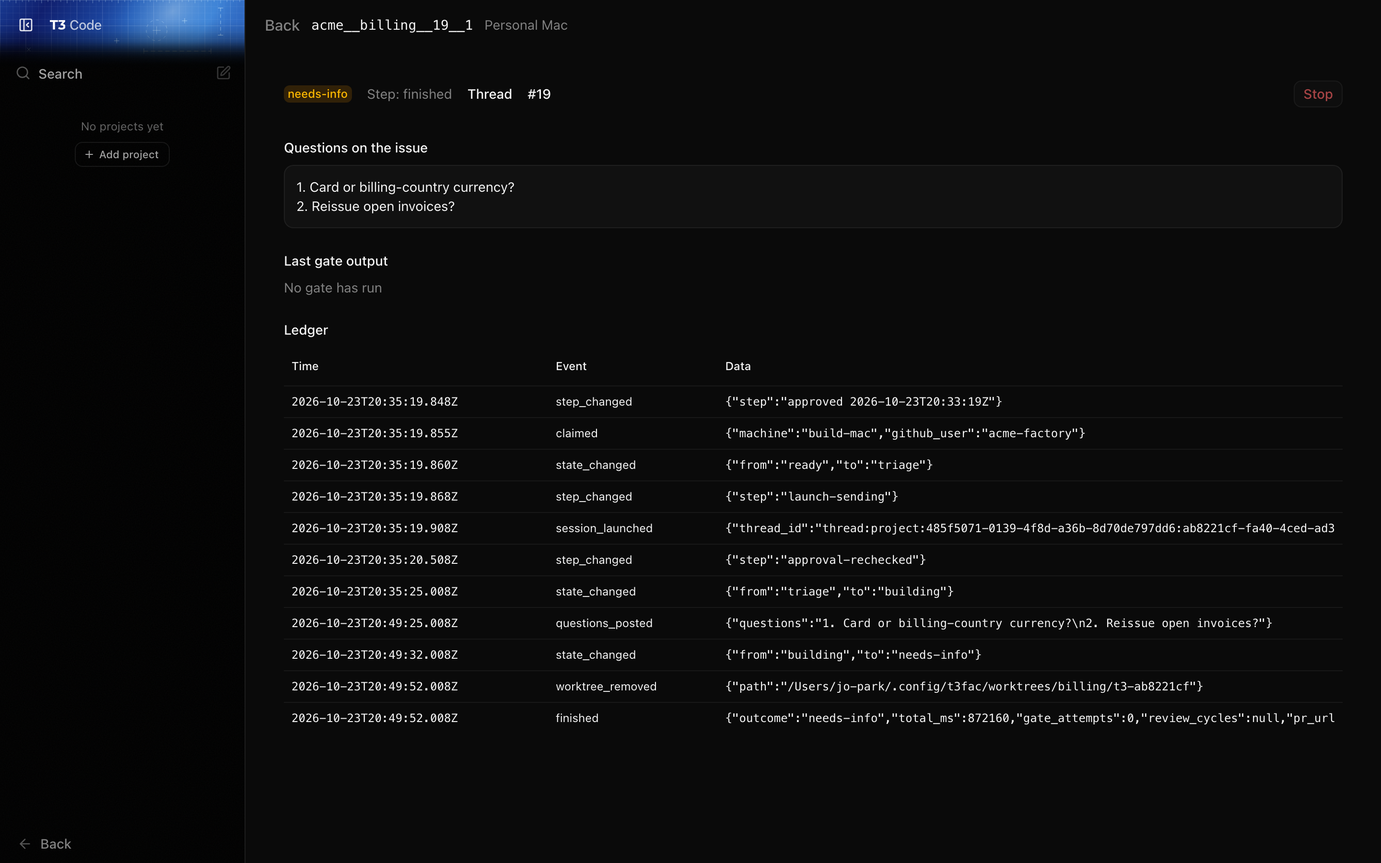
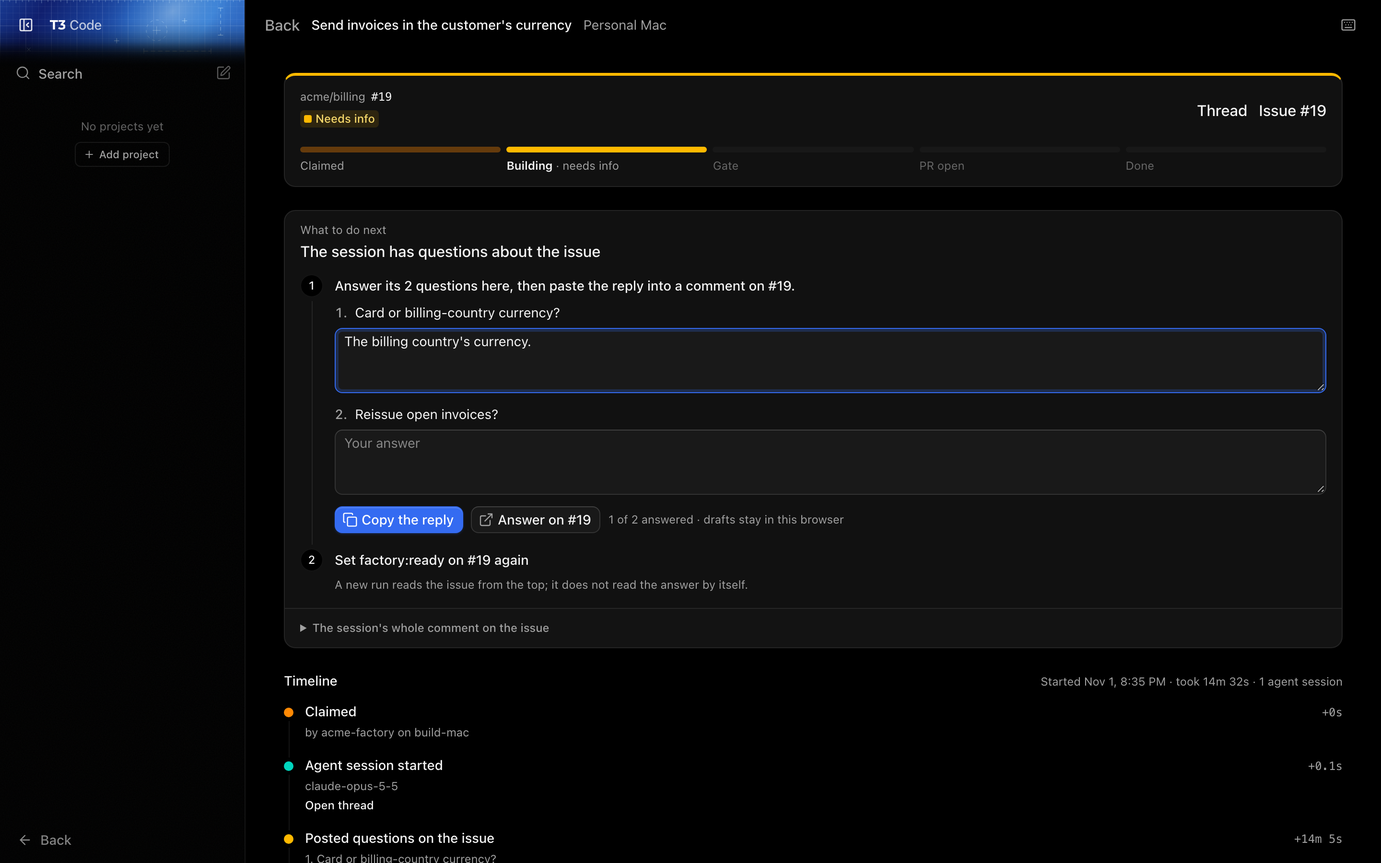
docs(factory): the guide teaches today's factory screens: fresh light and dark shots of every page, a stuck run's next step and a merged run's report, and Watch runs split into the questions each part answers

diff --git a/factory/site/scripts/screenshots.ts b/factory/site/scripts/screenshots.ts
@@ -39,10 +39,10 @@ const SHOTS: ReadonlyArray<Shot> = [
   {
     name: "factory-page",
     path: () => "/factory",
-    // Tall enough for the belt, the bins and the runs table under them.
+    // Tall enough for the repo tiles, the control bar and the belt with a post open.
     height: 1280,
     ready: async (page) => {
-      await page.getByText("acme/storefront#57").first().waitFor();
+      await page.locator('[data-post="building"]').waitFor();
       // The page opens the newest run's post, Claimed, whose run has no title until it launches.
       await page.locator('[data-post="building"]').click();
       await page.getByText("Retry failed webhook deliveries").first().waitFor();
@@ -53,14 +53,29 @@ const SHOTS: ReadonlyArray<Shot> = [
     path: (environmentId) => `/factory/${environmentId}/${demoRunId("pr-open")}`,
     ready: async (page) => {
       await page.getByText("Last gate output").waitFor();
-      await page.getByText("pr_opened").first().waitFor();
     },
   },
   {
     name: "run-needs-info",
     path: (environmentId) => `/factory/${environmentId}/${demoRunId("needs-info")}`,
     ready: async (page) => {
-      await page.getByText("questions_posted").first().waitFor();
+      await page.getByRole("button", { name: "Copy the reply" }).waitFor();
+      // A question answered, so the shot shows what the reply box is for.
+      await page.getByRole("textbox").first().fill("The billing country's currency.");
+    },
+  },
+  {
+    name: "run-stuck",
+    path: (environmentId) => `/factory/${environmentId}/${demoRunId("stuck")}`,
+    ready: async (page) => {
+      await page.getByText("What to do next").waitFor();
+    },
+  },
+  {
+    name: "run-merged",
+    path: (environmentId) => `/factory/${environmentId}/${demoRunId("merged")}`,
+    ready: async (page) => {
+      await page.getByText("How it went").waitFor();
     },
   },
   {
@@ -69,15 +84,24 @@ const SHOTS: ReadonlyArray<Shot> = [
     ready: async (page) => {
       const list = page.getByRole("region", { name: "Needs attention" });
       await list.getByText("acme/storefront#52").first().waitFor();
-      // The row the list shares with the Needs info and Stuck bins.
-      return list.locator("xpath=..");
+      // The row the list shares with the Needs info and Stuck bins, scrolled into the window.
+      const row = list.locator("xpath=..");
+      await row.scrollIntoViewIfNeeded();
+      return row;
     },
   },
   {
     name: "settings-factory",
     path: () => "/settings/factory",
+    height: 1400,
     ready: async (page) => {
-      await page.getByText("poll", { exact: false }).first().waitFor();
+      // The form, not the first-run steps above it: no T3 project is seeded here.
+      const section = page.locator("section").filter({
+        has: page.getByRole("heading", { name: "Machine config" }),
+      });
+      await section.getByText("poll", { exact: false }).first().waitFor();
+      await section.scrollIntoViewIfNeeded();
+      return section;
     },
   },
 ];
@@ -234,7 +258,10 @@ const fetchEnvironmentId = async (server: DevServer): Promise<string> => {
   return descriptor.environmentId;
 };
 
-const capture = async (browser: Browser, server: DevServer): Promise<void> => {
+/** Where the docs say the demo machine keeps its T3 home, in place of the temp dir it really is in. */
+const SHOWN_HOME = "/Users/jo-park/.config/t3fac";
+
+const capture = async (browser: Browser, server: DevServer, home: string): Promise<void> => {
   const environmentId = await fetchEnvironmentId(server);
   NodeFS.mkdirSync(OUT_DIR, { recursive: true });
   // One context for both themes: the pairing URL's token works once.
@@ -269,6 +296,21 @@ const capture = async (browser: Browser, server: DevServer): Promise<void> => {
       });
       // Let the last fetch and the fonts settle so no shot catches a loading state.
       await page.waitForLoadState("networkidle");
+      // Settings names the config file it writes; show the demo machine's home, not the temp dir.
+      await page.evaluate(
+        ([homes, to]) => {
+          const walker = document.createTreeWalker(document.body, NodeFilter.SHOW_TEXT);
+          for (let node = walker.nextNode(); node !== null; node = walker.nextNode()) {
+            for (const from of homes) {
+              if (node.nodeValue?.includes(from)) {
+                node.nodeValue = node.nodeValue.replaceAll(from, to);
+              }
+            }
+          }
+        },
+        // The real path first: the tmpdir form is a prefix of it on macOS.
+        [[NodeFS.realpathSync(home), home], SHOWN_HOME] as const,
+      );
       await page.evaluate(() => document.fonts.ready);
       const file = NodePath.join(OUT_DIR, `${shot.name}-${theme}.png`);
       const box = part ? await part.boundingBox() : null;
@@ -316,7 +358,7 @@ const main = async (): Promise<void> => {
     child = spawnDevServer(home, ghConfigDir, log);
     const server = await devServerReady(child, log);
     browser = await chromium.launch();
-    await capture(browser, server);
+    await capture(browser, server, home);
   } catch (error) {
     if (NodeFS.existsSync(log)) {
       // The startup pairing URL's token is dead once the server stops, but keep it off screen.

diff --git a/factory/site/scripts/demo-data.ts b/factory/site/scripts/demo-data.ts
@@ -120,6 +120,8 @@ poll_seconds: 60
 max_concurrent_runs: 2
 max_concurrent_gates: 1
 notify: false
+# The throwaway home sits on whatever disk runs the script; no low-disk item in the shots.
+min_free_gib: 0
 `;
 
 /** A stable fake id from a run, so every rerun of the script draws the same images. */

diff --git a/factory/site/guide/watching-runs.md b/factory/site/guide/watching-runs.md
@@ -1,47 +1,101 @@
 # Watch runs
 
-The fork's web app has a Factory page, reached from the sidebar. It shows every connected environment that runs a factory, the primary environment first: a belt at the top with the runs of all of them, and below it one table of their runs. In the desktop app the primary is the LaunchAgent server once you have [paired it](/guide/install#install-the-desktop-app). Reading needs a normal paired session. Pausing claims, stopping a run and dismissing an item need the `orchestration:operate` scope, which a normal pairing carries.
+The fork's web app has a Factory page, reached from the sidebar. It shows every connected environment that runs a factory, the primary environment first: what needs you and what happened while you were away at the top, then a belt with the runs of all of them, and below it one table of their runs. In the desktop app the primary is the LaunchAgent server once you have [paired it](/guide/install#install-the-desktop-app). Reading needs a normal paired session. Pausing claims, stopping a run and dismissing an item need the `orchestration:operate` scope, which a normal pairing carries.
 
 The pages work in a phone's browser too, paired over your tailnet as described in [remote access](https://github.com/pingdotgg/t3code/tree/main/docs/user/remote-access.md). The T3 mobile app is upstream's build and has no Factory screen.
 
 ## The Factory page
 
-<img class="screenshot light-only" src="/screenshots/factory-page-light.png" alt="The Factory page: the belt with one run each at Claimed, Building, Gate and PR open and none done today, the Building post open on its run and its issue title, then the Needs attention, Needs info and Stuck bins, and the runs table with every run's state, step, age and pull request" />
-<img class="screenshot dark-only" src="/screenshots/factory-page-dark.png" alt="The Factory page: the belt with one run each at Claimed, Building, Gate and PR open and none done today, the Building post open on its run and its issue title, then the Needs attention, Needs info and Stuck bins, and the runs table with every run's state, step, age and pull request" />
+<img class="screenshot light-only" src="/screenshots/factory-page-light.png" alt="The Factory page: a tile per repo, one stuck and one waiting on an answer; the control bar with claims running and the next pass; what happened in the last day with the stuck and needs-info runs; the Today strip; and the belt with one run each at Claimed, Building, Gate and PR open, the Building post open on its run" />
+<img class="screenshot dark-only" src="/screenshots/factory-page-dark.png" alt="The Factory page: a tile per repo, one stuck and one waiting on an answer; the control bar with claims running and the next pass; what happened in the last day with the stuck and needs-info runs; the Today strip; and the belt with one run each at Claimed, Building, Gate and PR open, the Building post open on its run" />
 
-Until the factory has run anything, the page opens on what stands between it and its first run instead of an empty belt: a watched repo, a config it can build from, claims on, and an issue labelled `factory:ready`. Each step says where it stands, with the first config error or a **Turn claims on** button where that is what is missing, beside how a run will travel the five posts.
+Read the page from the top down. Each part answers one question.
 
-With runs in more than one repo, the page opens on a tile for each repo, the ones that need you first: stuck, then waiting on an answer, then with a run in flight, then flowing (something merged in the last seven days), then quiet. Each tile says what else is going on and when it last merged, and draws its last seven days as bars, green for what merged and red for what stopped. Click a tile to show only that repo on the whole page, the belt and its bins included; click it again, or **Show everything**, to see every repo. It is the same filter as the repo in the **Showing** line.
+### Is anything waiting on me?
 
-At the top of the belt, the control bar holds the claims switch and the countdown to the next pass, and under them what the factory did since you last caught up, or in the last day before you ever have: how many issues merged, closed and were claimed, the runs that stopped for you (stuck or needs info, unless a later attempt took over) with why, and the merged and closed issues, each opening its run. Press **Mark caught up** and your next visit counts from there. The mark is kept in this browser and the catch-up follows the **Showing** line.
+With runs in more than one repo, the page opens on a tile for each repo, the ones that need you first: stuck, then waiting on an answer, then with a run in flight, then flowing (something merged in the last seven days), then quiet. Each tile says what else is going on and when it last merged, and draws its last seven days as bars, green for what merged and red for what stopped. Click a tile to show only that repo on the whole page, the belt and its bins included. Click it again, or **Show everything**, to see every repo. It is the same filter as the repo in the **Showing** line.
 
-Use it to see what the factory is doing now. The belt at the top has five posts, one per station a run passes: Claimed, Building, Gate, PR open and Done. Each unfinished run is a tile under its post, showing its issue number and how long it has been there; click a tile to open the run. Click a post to open a table of its runs under the rail, with each run's title and step and the actions that can work on it: its thread, its pull request, and Stop while it is building. The runs list and a run's page show the same actions, and the runs list adds **Next step** (or **Answer**) to the newest attempt of a stuck (or needs-info) issue. Done counts the runs whose pull request was merged or closed today. The belt reads status every 5 seconds while the page is open.
+Until the factory has run anything, the page opens on what stands between it and its first run instead: a watched repo, a config it can build from, claims on, and an issue labelled `factory:ready`. Each step says where it stands, with the first config error or a **Turn claims on** button where that is what is missing.
 
-Under the belt, the runs table lists every unfinished run and the runs that finished in the last week, newest first under a heading for each day with its count, with each run's title, repo, issue, state, current step, age and pull request. A run that ended because its pull request was merged or closed shows `merged` or `closed` as its state. The chips above it (Active, Needs a person, Merged, Closed) narrow the list to one state and count the runs in each; the chip is in the URL. Type in the search box to keep the runs whose title, repo or run id holds every word, or `#20` for one issue or pull request. The table shows 50 runs at a time: Show more adds the next 50, and `j` past the last run does it for you. Show all runs to read the full history. It refreshes every 30 seconds. With several environments or repos, narrow the page with the **Showing** line under its title: pick a repo, each listed with how it is doing, and with several environments a machine, each with its state. The line stays in view as you scroll, **Show everything** clears both, and the choice is in the URL, so a reload or a shared link keeps it.
+### What happened while I was away?
 
-To see whether a change to how you write issues, or to a repo's config, is helping, switch the page header from **Live** to **Trends**. It counts every run by the week it was claimed, for up to eight weeks: a bar per week split by how its runs came out, and for each week how many merged, the share of ended runs that got stuck or needed info, and the median time from claim to merge. The top row sets this week against the four weeks before it, and **Why runs got stuck** lists the causes with a count per week, so a cause you fixed should fade. Trends follow the **Showing** line and read the full runs list once, as Show all runs does.
+Under the control bar, the catch-up says what the factory did since you last caught up, or in the last day before you ever have. It counts what merged, closed and was claimed, lists the runs that stopped for you (stuck or needs info, unless a later attempt took over) with why, and lists the merged and closed issues. Each one opens its run. Press **Mark caught up** and your next visit counts from there. The mark is kept in this browser, and the catch-up follows the **Showing** line.
 
-With several environments, the control bar lists every machine on its own row: its claims switch, whether it is running, paused (since when), held for an update or idle (and why, with a link to Settings → Factory), its slots, the countdown to its next pass, and **Update waiting** when a build waits to install. A paused or held machine shows without being picked. Pick a machine by its name: its tiles on the rail turn solid while the others' are hollow, the Claimed post says when its claims are held, and its update banner shows. The catch-up, the Today strip, Done and the Stuck and Needs info bins don't change with the pick. On the strip, each run that touched today is a bar from its claim to its end (to now while it runs), coloured by its post or by how it ended, and opens its run. A shaded band marks the time the picked machine's claims have been held. With one environment, its slots are beside its name above the control bar, and an idle factory says why there.
+The **Today** strip under it draws each run that touched today as a bar from its claim to its end (to now while it runs), coloured by its post or by how it ended. Click a bar to open the run.
+
+### What is the factory doing now?
+
+The belt has five posts, one per station a run passes: Claimed, Building, Gate, PR open and Done. Each unfinished run is a tile under its post, showing its issue number and how long it has been there. Click a tile to open the run. Click a post to open a table of its runs under the rail, with each run's title and step and the actions that can work on it: its thread, its pull request, and **Stop** while it is building. Done counts the runs whose pull request was merged or closed today. The belt reads status every 5 seconds while the page is open.
+
+### Every run, searchable
+
+Under the belt and its bins, the runs table lists every unfinished run and the runs that finished in the last week, newest first under a heading for each day. Each row has the run's title, repo, issue, state, current step, age and pull request, and the state wears its post's colour. A run that ended because its pull request was merged or closed says Merged or Closed. The newest attempt of a stuck issue gets **Next step**, and of a needs-info issue **Answer**.
+
+- The chips above the table (Active, Needs a person, Merged, Closed) narrow it to one state and count the runs in each. The chip is in the URL.
+- Type in the search box to keep the runs whose title, repo or run id holds every word, or `#20` for one issue or pull request.
+- The table shows 50 runs at a time. **Show more** adds the next 50, and `j` past the last run does it for you. **Show all runs** reads the full history.
+
+It refreshes every 30 seconds.
+
+### Several repos or machines
+
+With several environments or repos, narrow the page with the **Showing** line under its title: pick a repo, each listed with how it is doing, and with several environments a machine, each with its state. The line stays in view as you scroll, **Show everything** clears both, and the choice is in the URL, so a reload or a shared link keeps it.
+
+With several environments, the control bar lists every machine on its own row: its claims switch, whether it is running, paused (since when), held for an update or idle (and why, with a link to Settings → Factory), its slots, the countdown to its next pass, and **Update waiting** when a build waits to install. A paused or held machine shows without being picked. Pick a machine by its name: its tiles on the rail turn solid while the others' are hollow, the Claimed post says when its claims are held, its update banner shows, and the Today strip shades the time its claims have been held. The catch-up, the Today strip's bars, Done and the Stuck and Needs info bins don't change with the pick. With one environment, its slots are beside its name above the control bar, and an idle factory says why there.
+
+### Pausing claims
 
 Turn a claims switch off to pause claims on that machine. While claims are paused the factory takes no new `factory:ready` issues in any repo. Runs already under way carry on: sessions, gates and feedback all continue. Turn the switch back on to start claiming again.
 
-Claims also stop while autodeploy has a new build waiting to install. The belt then shows an **Update waiting** banner naming the build, how long it has waited and when it installs at the latest, and what it waits for: each run in progress (a link to it), a factory pass running, and threads with an agent at work. It installs within 10 minutes of the last of those finishing. The Claimed post says `claims held for update`. **Snooze 1 hour** lets claims go on for an hour and holds the install; **Update now** installs it at once, over the runs in progress. Snoozing needs the `orchestration:operate` scope and Update now the `environment:maintain` scope. See [Follow main](/guide/install#follow-main).
+Claims also stop while autodeploy has a new build waiting to install. The belt then shows an **Update waiting** banner naming the build, how long it has waited and when it installs at the latest, and what it waits for: each run in progress (a link to it), a factory pass running, and threads with an agent at work. It installs within 10 minutes of the last of those finishing. The Claimed post says `claims held for update`. **Snooze 1 hour** lets claims go on for an hour and holds the install. **Update now** installs it at once, over the runs in progress. Snoozing needs the `orchestration:operate` scope and Update now the `environment:maintain` scope. See [Follow main](/guide/install#follow-main).
+
+### Trends
+
+To see whether a change to how you write issues, or to a repo's config, is helping, switch the page header from **Live** to **Trends**. It counts every run by the week it was claimed, for up to eight weeks: a bar per week split by how its runs came out, and for each week how many merged, the share of ended runs that got stuck or needed info, and the median time from claim to merge. The top row sets this week against the four weeks before it, and **Why runs got stuck** lists the causes with a count per week, so a cause you fixed should fade. Trends follow the **Showing** line and read the full runs list once, as Show all runs does.
 
 ## A run's page
 
-<img class="screenshot light-only" src="/screenshots/run-page-light.png" alt="A pr-open run's page: its state and step, the links to its thread, issue and pull request, the last gate's commands with exit code 0, and the ledger, where gate attempt 1 failed and was sent back before attempt 2 passed" />
-<img class="screenshot dark-only" src="/screenshots/run-page-dark.png" alt="A pr-open run's page: its state and step, the links to its thread, issue and pull request, the last gate's commands with exit code 0, and the ledger, where gate attempt 1 failed and was sent back before attempt 2 passed" />
+<img class="screenshot light-only" src="/screenshots/run-page-light.png" alt="A PR open run's page: the run card with its repo and issue, the PR open chip and step, links to its thread, issue and pull request, and the five-post track filled up to PR open; then the timeline, where gate attempt 1 failed on npm test and was sent back before attempt 2 passed, and the last gate output" />
+<img class="screenshot dark-only" src="/screenshots/run-page-dark.png" alt="A PR open run's page: the run card with its repo and issue, the PR open chip and step, links to its thread, issue and pull request, and the five-post track filled up to PR open; then the timeline, where gate attempt 1 failed on npm test and was sent back before attempt 2 passed, and the last gate output" />
 
-Open a run from the list to see why it is where it is. The page shows the run's state and step, and links to its issue, its pull request and its T3 thread, where you can read the session. While a run is unfinished, its Thread link here, on the belt and in the runs list says what the agent is doing (working, needs approval, needs answer, turn ended, failed), and on its page the run's card adds a line under the track with the same state, since when, how many items its thread holds and when it last changed. A stuck or needs-info run's page opens on what to do next: the cause in plain words, the fix for it with a button to where it starts (the session's thread, the gate output, the pull request's checks, or the issue to answer), and the reminder to set `factory:ready` again with what the new run will build on. The reason or questions in full sit under the steps. A run whose pull request was merged or closed opens on how it went: the time from claim to merge or close, a bar of where that time went (the agent building, the gate, the pull request waiting on review), dots on it where the run went back to the agent (a gate failure, review feedback) or the base branch moved, and **First try** when it merged with nothing sent back. Below that is the run's timeline: what happened, in plain words, timed from the claim. Each gate run is one step with its commands, each agent session links to its own thread, and the summary above it says how long the run took and how many gate runs failed. Once a gate has run, the last gate comes next: each command with its exit code and duration, and, when a command failed, where it failed: the failing lines of its output with a few lines around them, numbered and marked, with the whole output a click away and a button to copy it. Last is the raw ledger, every event the factory recorded for the run, closed until you open it.
+Open a run from anywhere it is listed to see why it is where it is. The page's header names the issue, and the run card under it says where the run stands: its repo and issue, its state in the belt's colours with the current step, links to its **Thread**, **Issue** and **PR**, and a track of the five posts filled up to where the run got. A run that stopped shows its post in red or amber with "stuck" or "needs info" beside it.
 
-A run opened from the runs table or from the Stuck or Needs info bin keeps that list: its header shows the run's title and where it sits (`3 of 17`), and the arrows beside it open the previous or next run. Back returns to the list with the same filters and search, on the run you left. From a keyboard, `j` and `k` step through the runs table and `Enter` opens one; on a run's page `j` and `k` move to the next and previous run and `Esc` goes back. `/` jumps to the search box. `b`, `a`, `n`, `s` and `r` jump to the belt, Needs attention, Needs info, Stuck and the runs table, and the first Tab on the page offers the same jumps. `?` lists every key.
+While a run is unfinished, its Thread link here, on the belt and in the runs list says what the agent is doing (working, needs approval, needs answer, turn ended, failed). On its page the run card adds a line under the track with the same state, since when, how many items its thread holds and when it last changed.
 
-A run in `factory:building` can be stopped from here. See [Stopping a run by hand](/guide/when-a-run-stops#stopping-a-run-by-hand).
+### When it stopped: what to do next
+
+<img class="screenshot light-only" src="/screenshots/run-stuck-light.png" alt="A stuck run's page: the run card with its track red at PR open, then What to do next, headed The gate failed after 3 attempts, with step 1 to read the gate output, naming the command that failed, and step 2 to set factory:ready on the issue again, saying the new run continues the pull request" />
+<img class="screenshot dark-only" src="/screenshots/run-stuck-dark.png" alt="A stuck run's page: the run card with its track red at PR open, then What to do next, headed The gate failed after 3 attempts, with step 1 to read the gate output, naming the command that failed, and step 2 to set factory:ready on the issue again, saying the new run continues the pull request" />
+
+A stuck or needs-info run's page opens on **What to do next**. Its heading is the cause in plain words. Step 1 is the fix, with a button to where it starts: the session's thread, the gate output, the pull request's checks, or the issue to answer. Step 2 is the reminder to set `factory:ready` again, and says what the new run will build on. The reason in full sits under the steps. For a needs-info run, step 1 holds the session's questions with a box to answer each; see [needs-info](/guide/when-a-run-stops#needs-info).
+
+### When it merged: how it went
+
+<img class="screenshot light-only" src="/screenshots/run-merged-light.png" alt="A merged run's page: the run card with its track full to Merged, then How it went: 5h 49m from claim to merge, First try, and a bar split into agent building, gate and waiting on review with the time and share of each" />
+<img class="screenshot dark-only" src="/screenshots/run-merged-dark.png" alt="A merged run's page: the run card with its track full to Merged, then How it went: 5h 49m from claim to merge, First try, and a bar split into agent building, gate and waiting on review with the time and share of each" />
+
+A run whose pull request was merged or closed opens on **How it went**: the time from claim to merge or close, and a bar of where that time went (the agent building, the gate, the pull request waiting on review). Dots on the bar mark where the run went back to the agent (a gate failure, review feedback) or the base branch moved. **First try** means it merged with nothing sent back.
+
+### The timeline, the gate and the ledger
+
+Below the card is the run's timeline: what happened, in plain words, timed from the claim. Each gate run is one step with its commands, each agent session links to its own thread, and the summary above it says how long the run took and how many gate runs failed.
+
+Once a gate has run, **Last gate output** comes next: each command with its exit code and duration. When a command failed, it shows the failing lines of its output with a few lines around them, numbered and marked, with the whole output a click away and a button to copy it.
+
+Last is the raw ledger, every event the factory recorded for the run, closed until you open it.
+
+### Moving between runs
+
+A run opened from the runs table or from the Stuck or Needs info bin keeps that list: its header shows where the run sits (`3 of 17`), and the arrows beside it open the previous or next run. Back returns to the list with the same filters and search, on the run you left.
+
+From a keyboard, `j` and `k` step through the runs table and `Enter` opens one. On a run's page `j` and `k` move to the next and previous run and `Esc` goes back. `/` jumps to the search box. `b`, `a`, `n`, `s` and `r` jump to the belt, Needs attention, Needs info, Stuck and the runs table, and the first Tab on the page offers the same jumps. `?` lists every key.
+
+A run in `factory:building` can be stopped from its page. See [Stopping a run by hand](/guide/when-a-run-stops#stopping-a-run-by-hand).
 
 ## Needs attention
 
-<img class="screenshot light-only" src="/screenshots/needs-attention-light.png" alt="The bins under the belt: Needs attention with a stuck item and a needs-info item, each with View run and Dismiss, beside the Needs info bin with the run's questions and the Stuck bin with the reason it stopped" />
-<img class="screenshot dark-only" src="/screenshots/needs-attention-dark.png" alt="The bins under the belt: Needs attention with a stuck item and a needs-info item, each with View run and Dismiss, beside the Needs info bin with the run's questions and the Stuck bin with the reason it stopped" />
+<img class="screenshot light-only" src="/screenshots/needs-attention-light.png" alt="The bins under the belt: Needs attention with a stuck item and a needs-info item, each with View run and Dismiss, beside the Needs info bin with the run's questions and the Stuck bin with its runs folded under the cause, The gate failed after 3 attempts" />
+<img class="screenshot dark-only" src="/screenshots/needs-attention-dark.png" alt="The bins under the belt: Needs attention with a stuck item and a needs-info item, each with View run and Dismiss, beside the Needs info bin with the run's questions and the Stuck bin with its runs folded under the cause, The gate failed after 3 attempts" />
 
 Under the belt, the Factory page lists what needs a person in three bins: Needs attention, Needs info and Stuck. Needs info lists each run's issue with the questions it asked. Stuck sorts its runs by why they stopped: each cause, such as "The run passed its time limit", is a fold with its count and issue numbers, the biggest first, and opening it shows each run with its repo, age and the rest of its reason. The sidebar's Factory item shows how many items need attention, and a dot while runs are in flight or claims are held. Hover it for the runs in flight, each a link to its run, without leaving your thread. An item is raised when:
 
@@ -61,9 +115,11 @@ An item clears itself when its cause goes away: the config loads, a pass succeed
 
 ## Settings → Factory
 
-<img class="screenshot light-only" src="/screenshots/settings-factory-light.png" alt="Settings, Factory: the machine config form with the GitHub config directory, poll seconds and the run and gate limits, then Watched repos, empty because no T3 project here has a factory block" />
-<img class="screenshot dark-only" src="/screenshots/settings-factory-dark.png" alt="Settings, Factory: the machine config form with the GitHub config directory, poll seconds and the run and gate limits, then Watched repos, empty because no T3 project here has a factory block" />
+<img class="screenshot light-only" src="/screenshots/settings-factory-light.png" alt="Settings, Factory: the Machine config card with the GitHub config directory, poll seconds, the run and gate limits and feedback seconds, each number with its unit, the hand-edited keys as chips, and Save in the card's foot beside the file it writes" />
+<img class="screenshot dark-only" src="/screenshots/settings-factory-dark.png" alt="Settings, Factory: the Machine config card with the GitHub config directory, poll seconds, the run and gate limits and feedback seconds, each number with its unit, the hand-edited keys as chips, and Save in the card's foot beside the file it writes" />
 
-Use it to change the [machine config](/guide/machine-config) and to check which repos are watched. The form edits the GitHub config directory, the poll interval and the run and gate limits, and saves to `~/.config/t3fac/factory/config.yml`. Saving needs a session that may change settings.
+Use it to change the [machine config](/guide/machine-config) and to check which repos are watched. Until the factory has a watched repo it can build from, the page opens on the same first-run steps as the Factory page.
 
-Below the form, Watched repos lists one line per repo with a state (Error, Not read yet, Defaults or Ready), repos with errors first and the first error shown on the line. Open a line for its T3 project's folder and its `factory` block as the last pass read it (from GitHub, or from the checkout when GitHub has no copy), including any errors that stop the factory using it. Repos the factory couldn't settle on its last read are listed separately with the reason. [Add a repo](/guide/add-a-repo) explains what makes a repo watched.
+The Machine config card edits the GitHub config directory, the poll interval, the run and gate limits and how often to read pull request feedback. The keys you edit by hand in the file are listed as chips under the form, and a save keeps them as written. **Save** is in the card's foot, beside the file it writes (`~/.config/t3fac/factory/config.yml`), and stays in view while you have unsaved changes. Saving needs a session that may change settings.
+
+Below the form, Watched repos lists one line per repo with a coloured dot and its state (Error, Not read yet, Defaults or Ready), repos with errors first and the first error shown on the line. Open a line for its T3 project's folder and its `factory` block as the last pass read it (from GitHub, or from the checkout when GitHub has no copy), including any errors that stop the factory using it. Repos the factory couldn't settle on its last read are listed separately with the reason. [Add a repo](/guide/add-a-repo) explains what makes a repo watched.

diff --git a/factory/site/guide/when-a-run-stops.md b/factory/site/guide/when-a-run-stops.md
@@ -4,8 +4,8 @@ Most runs end at `factory:pr-open`. The rest end in one of two labels, each with
 
 ## needs-info
 
-<img class="screenshot light-only" src="/screenshots/run-needs-info-light.png" alt="A needs-info run's page: the questions the session posted on the issue, then the gate section, where no gate has run, and the ledger" />
-<img class="screenshot dark-only" src="/screenshots/run-needs-info-dark.png" alt="A needs-info run's page: the questions the session posted on the issue, then the gate section, where no gate has run, and the ledger" />
+<img class="screenshot light-only" src="/screenshots/run-needs-info-light.png" alt="A needs-info run's page: the run card with its track amber at Building, then What to do next: answer its 2 questions here, each with a box under it and the first answered, Copy the reply and Answer on #19, then set factory:ready on #19 again" />
+<img class="screenshot dark-only" src="/screenshots/run-needs-info-dark.png" alt="A needs-info run's page: the run card with its track amber at Building, then What to do next: answer its 2 questions here, each with a box under it and the first answered, Copy the reply and Answer on #19, then set factory:ready on #19 again" />
 
 The session decided the issue can't be built as written: the outcome is unclear, two readings would give different code, or the issue holds two separate pieces of work. It ends with its questions, and the factory posts them as a comment, sets `factory:needs-info` and unassigns the issue.
 
@@ -13,7 +13,10 @@ Answer in a comment or edit the issue so it settles every question, then an inst
 
 ## stuck
 
-The factory gave up. The comment gives the reason and, when the session had made commits, the branch they are on. Common reasons:
+<img class="screenshot light-only" src="/screenshots/run-stuck-light.png" alt="A stuck run's page: What to do next, headed The gate failed after 3 attempts, with step 1 to read the gate output, naming the command that failed, and step 2 to set factory:ready on the issue again" />
+<img class="screenshot dark-only" src="/screenshots/run-stuck-dark.png" alt="A stuck run's page: What to do next, headed The gate failed after 3 attempts, with step 1 to read the gate output, naming the command that failed, and step 2 to set factory:ready on the issue again" />
+
+The factory gave up. The comment gives the reason and, when the session had made commits, the branch they are on. The run's page opens on **What to do next**: the reason as its heading, the fix with a button to where it starts, and what the new run will build on. Common reasons:
 
 | Reason                                                        | What to do                                                                                                                         |
 | ------------------------------------------------------------- | ---------------------------------------------------------------------------------------------------------------------------------- |
